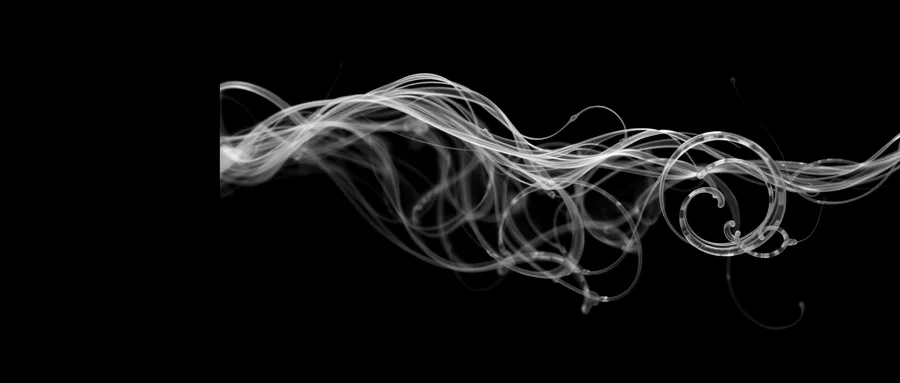
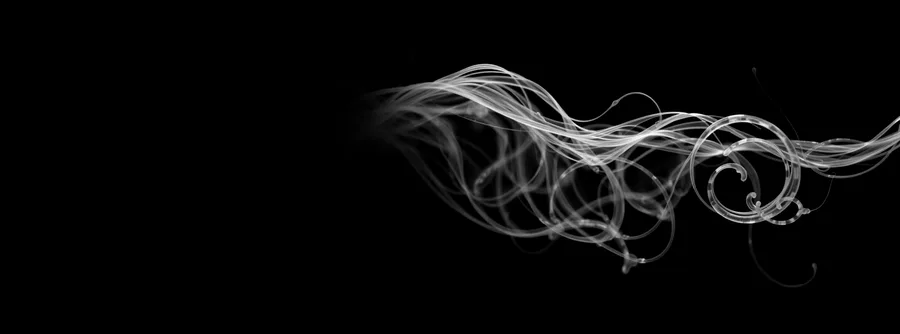
fix(hero): imagen fija, más a la derecha y sin costura
Decisión de Diego (24 oct): "si es problema el movimiento, descartado… que se
quede fijo". Fuera la deriva y la respiración: la imagen no se anima.

- Más a la derecha: lienzo 2200×816 (2,7:1) con el contenido pegado a la derecha
  y object-position 2 %. Ahora hay 392 px de ancho que recortar, así que el
  encuadre se puede mover de verdad.
- COSTURA CAZADA: al ampliar el lienzo apareció una línea vertical dura en el
  borde izquierdo del contenido. Causa: el negro de la foto NO era negro puro
  (#000) y el relleno sí, así que se veía el empalme. Arreglado con un alfa
  difuminado de 260 px en el borde izquierdo del contenido antes de componer.
- Peso: 26,4 kB (1600 px) y 12,8 kB (900 px). La imagen más ligera hasta ahora.

MEDIDO: 0 desbordes y scrollWidth = clientWidth a 390 en /, /audiovisual y
/rotulacion. Revisado a 1280 y 390 (móvil con velo vertical invertido).

Changed region(s): [[0.2178, 0.1796, 1.0, 0.8084]]

diff --git a/src/styles/web2.css b/src/styles/web2.css
@@ -177,16 +177,16 @@
 }
 
 
-/* Videoclips: dos piezas destacadas, el enlace ES el reproductor */
 /* ── HERO A SANGRE (24 oct 2026) ────────────────────────────────────────
    OJO con el encuadre: en `cover`, si la imagen es MENOS apaisada que la caja,
    no sobra ancho y object-position horizontal NO hace nada (medido: 78 %, 92 %
    y 100 % salían idénticas). El desplazamiento a la derecha se resuelve en el
-   ASSET: lienzo 1780×864 con el contenido alineado a la derecha y negro a la
-   izquierda. Así la masa cae a la derecha en cualquier viewport.
+   ASSET: lienzo 2200×816 (2,7:1) con el contenido alineado a la derecha y negro
+   a la izquierda; con eso sí hay ancho que recortar y el % de posición manda.
    La imagen no es un panel pegado: es la página. Por eso la sección NO es .wrap
    —el fondo cubre el ancho del viewport— y el texto vive dentro de un .wrap.
-   El velo es la garantía de lectura: negro opaco hasta el 45 %, donde está la copy. */
+   El velo es la garantía de lectura: negro opaco hasta el 45 %, donde está la copy.
+   IMAGEN FIJA por decisión de Diego (24 oct): sin deriva ni respiración. */
 .hero {
   position: relative;
   isolation: isolate;
@@ -201,10 +201,7 @@
   width: 100%;
   height: 100%;
   object-fit: cover;
-  object-position: 42% 50%;
-  /* Deriva: 44 s de paneo lentísimo, ida y vuelta. Cero JS. */
-  animation: deriva 32s ease-in-out infinite alternate;
-  will-change: transform;
+  object-position: 2% 50%;
 }
 .hero-velo {
   position: absolute;
@@ -223,34 +220,6 @@
   z-index: 1;
 }
 
-@keyframes deriva {
-  from {
-    transform: scale(1.05) translate3d(0, 0, 0);
-  }
-  to {
-    transform: scale(1.12) translate3d(-2.6%, -1.2%, 0);
-  }
-}
-
-/* Quien pide menos movimiento, no ve movimiento (y no pierde la imagen). */
-/* Con "reducir movimiento" el desplazamiento se apaga del todo (eso pide el ajuste),
-   pero la imagen no se queda muerta: respira con la opacidad —sin traslación, que es
-   lo que marea a quien activa ese ajuste. Medido el 24 oct: el Mac de Diego lo tiene
-   ACTIVADO (reduceMotion = 1), así que en su pantalla no se mueve; es el ajuste, no la web. */
-@media (prefers-reduced-motion: reduce) {
-  .hero-bg img {
-    animation: respirar 18s ease-in-out infinite alternate;
-    transform: scale(1.05);
-  }
-  @keyframes respirar {
-    from {
-      opacity: 0.82;
-    }
-    to {
-      opacity: 1;
-    }
-  }
-}
 
 /* Móvil: el velo pasa a vertical y se INVIERTE — el negro va arriba, donde está la
    copy, y la imagen se deja ver abajo, donde no hay texto. (Primera versión al revés:
@@ -271,6 +240,7 @@
 }
 /* ── /audiovisual (R2, 24 oct 2026) ──────────────────────────────────────
    Sin iframes: el vídeo se abre en su sitio (cero cookies de terceros, cero JS). */
+/* Videoclips: dos piezas destacadas, el enlace ES el reproductor */
 .clip-lista {
   list-style: none;
   padding: 0;
